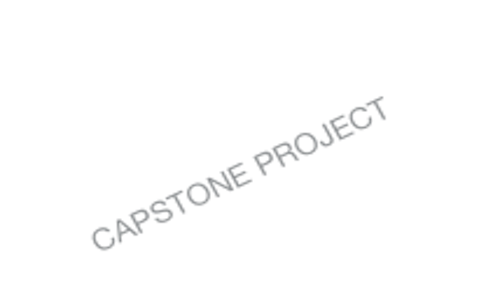
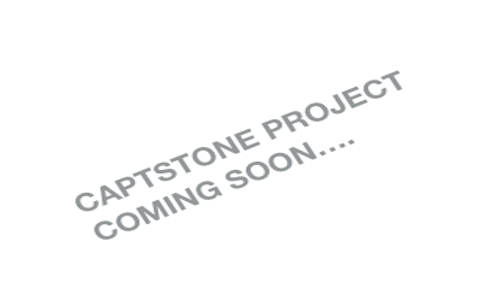
portfolio file changes

Changed region(s): [[0.15, 0.24, 0.81, 0.84]]

diff --git a/app/index.html b/app/index.html
@@ -131,8 +131,7 @@
                 <img class="capstonePhoto" src="images/portfolioimages/capstoness.png">
                 <div class="details"">
                 <strong>CAPSTONE PROJECT<br></strong>
-                  <br>
-                  Uses _____ technology
+                 
                 </div>
               </div>
               <div class="col-xs-12 col-sm-6">
